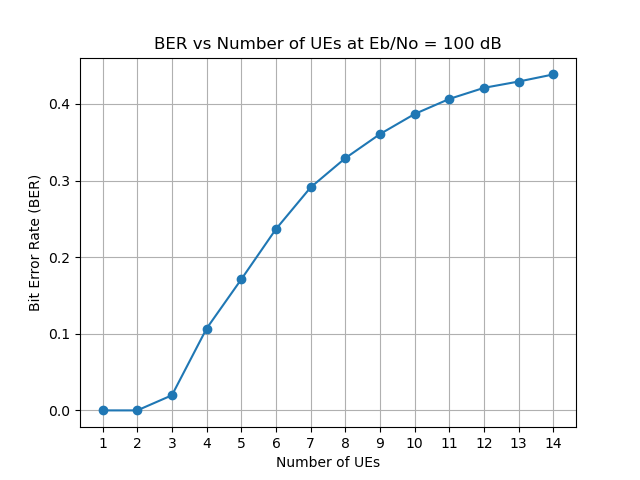
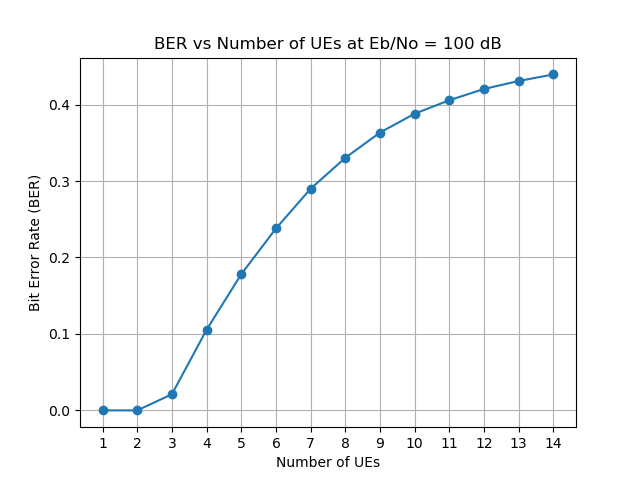
IRSA working

diff --git a/p07_IRSA_over_NR_parallel.py b/p07_IRSA_over_NR_parallel.py
@@ -97,7 +97,7 @@ def generate_ues(simulation_params, num_ues_per_frame, num_simulations):
     
     # Generate random binary bits for the UE
     num_ues =num_ues_per_frame* num_simulations
-    bits = binary_source([num_ues, n])
+    bits = binary_source([num_ues, k])
     
     # Encode the bits using LDPC encoder
     codewords = encoder(bits)
@@ -134,7 +134,7 @@ def generate_slot_indices(num_simulations, num_ues_per_frame, frame_size, probab
     slot_indices_list = []
 
     # Step 1: Randomly select the number of replicas for each UE based on the given probabilities
-    replica_counts = np.random.choice(np.arange(1, len(probabilities) + 1), size=num_ues, p=probabilities)
+    replica_counts = np.random.choice(np.arange(len(probabilities)), size=num_ues, p=probabilities)
 
     # Step 2: For each UE, randomly select slot indices based on the selected number of replicas
     for i in range(num_simulations):
@@ -143,10 +143,8 @@ def generate_slot_indices(num_simulations, num_ues_per_frame, frame_size, probab
             slot_indices = np.random.choice(np.arange(i * frame_size, (i + 1) * frame_size), size=num_replicas, replace=False)
             slot_indices_list.append(slot_indices)
     
-    # Convert the list to a tensor
-    slot_indices_tensor = tf.ragged.constant(slot_indices_list)
 
-    return slot_indices_tensor, replica_counts
+    return slot_indices_list, replica_counts
 
 def generate_channel(simulation_params, num_simulations, num_ues_per_frame, num_replicas, is_phase_shift_applied):
     """
@@ -198,6 +196,7 @@ def generate_channel(simulation_params, num_simulations, num_ues_per_frame, num_
 
     return angles_list, channel_coeff_list
 
+
 def generate_hyper_irsa_frame(simulation_params, num_simulations, num_ues_per_frame, frame_size, probabilities):
     """
     Generate an IRSA frame based on the given simulation parameters.
@@ -233,10 +232,10 @@ def generate_hyper_irsa_frame(simulation_params, num_simulations, num_ues_per_fr
     resource_grids, bits = generate_ues(simulation_params, num_ues_per_frame, num_simulations)
     
     # Generate slot indices based on the given probabilities
-    slot_indices = generate_slot_indices(num_simulations, num_ues_per_frame, frame_size, probabilities)
+    slot_indices, num_replicas = generate_slot_indices(num_simulations, num_ues_per_frame, frame_size, probabilities)
     
     # Generate the channel coefficients for each UE
-    angles, channel_coeff = generate_channel(simulation_params, num_ues_per_frame, num_simulations, frame_size, is_phase_shift_applied)
+    angles, channel_coeff = generate_channel(simulation_params, num_simulations, num_ues_per_frame, num_replicas, is_phase_shift_applied)
     
 
     
@@ -257,11 +256,13 @@ def generate_hyper_irsa_frame(simulation_params, num_simulations, num_ues_per_fr
         
         # Get the slot indices for the current UE
         slot_indices_ue = slot_indices[ue_index]
+        num_replicas_ue = num_replicas[ue_index]
         
         # Allocate the replicas of the current UE in the temporary hyper IRSA frame
-        for replica_index in slot_indices_ue:
+        for replica_index in range(num_replicas_ue):
+            replica_position = slot_indices_ue[replica_index]
             resource_grid_with_channel = resource_grid * channel_coeff_ue[replica_index]
-            ue_hyper_irsa_frame = tf.tensor_scatter_nd_update(ue_hyper_irsa_frame, [[replica_index]], resource_grid_with_channel)
+            ue_hyper_irsa_frame = tf.tensor_scatter_nd_update(ue_hyper_irsa_frame, [[replica_position]], tf.expand_dims(resource_grid_with_channel, axis=0))
         
         # Add the temporary hyper IRSA frame to the output frame
         irsa_hyper_frame += ue_hyper_irsa_frame
@@ -358,7 +359,7 @@ def decode_frame(received_rg, no, num_simulations, frame_size, simulation_params
     # Extract the data symbols from the equalized resource grid
     received_data_rg = tf.gather(received_rg_equalized, data_indices, axis=1)
     # Flatten the received symbols to match the input shape of the demapper
-    received_symbols= tf.reshape(received_symbols, (batch_size, -1))
+    received_symbols= tf.reshape(received_data_rg, (batch_size, -1))
 
     # Demap the received symbols to log-likelihood ratios (LLRs)
     llr = demapper([received_symbols, no])
@@ -401,7 +402,7 @@ def search_new_identified_ues(bits_hat, bits, slot_indices, identified_ues):
                 
     return new_identified_ues, new_identified_positions, new_ues_found
 
-def remove_replicas_of_newlly_identified_ues(y_resource_grids, resourse_grids, slot_indices, new_identified_ues, is_perfect_CSI):
+def remove_replicas_of_newlly_identified_ues(y_resource_grids, resourse_grids, slot_indices, new_identified_ues, is_perfect_SIC, channels):
     """
     Remove the replicas of a UE when it is recognized.
 
@@ -422,7 +423,7 @@ def remove_replicas_of_newlly_identified_ues(y_resource_grids, resourse_grids, s
         for pos in slot_indices[ue]:
             y_replica_slot = y_resource_grids_cleaned[pos]
             
-            if is_perfect_CSI:
+            if is_perfect_SIC:
                 # Extract the Channel coefficient of the replica
                 h_hat_replicas = channels[i]['coeff']
             else:
@@ -432,7 +433,7 @@ def remove_replicas_of_newlly_identified_ues(y_resource_grids, resourse_grids, s
             
             
             clean_slot = y_replica_slot - ue_rg * h_hat_replicas
-            y_resource_grids_cleaned = tf.tensor_scatter_nd_update(y_resource_grids_cleaned, [[pos]], clean_slot)
+            y_resource_grids_cleaned = tf.tensor_scatter_nd_update(y_resource_grids_cleaned, [[pos]], tf.expand_dims(clean_slot, axis=0))
 
     return y_resource_grids_cleaned
 
@@ -457,6 +458,9 @@ def decode_irsa_frame(y_resource_grids, no, simulation_params, resourse_grids, b
         slots_to_decode: List of slots to decode in future passes.
     """
     # Extract necessary parameters from the simulation_params dictionary
+    channel_params = simulation_params["Channel parameters"]
+    is_perfect_SIC = channel_params['is_perfect_SIC']
+    
     num_ues = num_simulations * num_ues_per_frame
 
     # Start decoding the received signal slot by slot
@@ -475,7 +479,7 @@ def decode_irsa_frame(y_resource_grids, no, simulation_params, resourse_grids, b
         new_identified_positions.update(new_positions)
 
         if new_ues_found:
-            y_resource_grids = remove_replicas_of_newlly_identified_ues(y_resource_grids, resourse_grids, slot_indices, new_identified_ues, simulation_params["Channel parameters"]["type"] == "Only Phase Shift")
+            y_resource_grids = remove_replicas_of_newlly_identified_ues(y_resource_grids, resourse_grids, slot_indices, new_identified_ues, is_perfect_SIC, h_hat)
             identified_ues.update(new_identified_ues)
         else:
             print("No new UEs were identified.")
@@ -485,96 +489,133 @@ def decode_irsa_frame(y_resource_grids, no, simulation_params, resourse_grids, b
 
     return list(identified_ues)
 
+def run_simulation(simulation_params, num_simulations, num_ues_per_frame, frame_size, probabilities, ebno_db):
+    """
+    Run a single simulation.
 
+    Args:
+        simulation_params: Dictionary containing all simulation parameters.
+        num_simulations: Number of simulations to run.
+        num_ues_per_frame: Number of UEs per frame.
+        frame_size: Total number of slots in the frame.
+        probabilities: Probabilities for selecting number of replicas.
+        ebno_db: The Eb/No value in dB.
+
+    Returns:
+        identified_ues: List of identified UEs.
+    """
+    # Generate the IRSA frame
+    irsa_hyper_frame, resource_grids, h_ues, replicas_indices, bits = generate_hyper_irsa_frame(simulation_params, num_simulations, num_ues_per_frame, frame_size, probabilities)
+    # Pass the IRSA frame through the AWGN channel
+    received_frame, no = pass_through_awgn(irsa_hyper_frame, ebno_db, simulation_params)
+    # Decode the IRSA frame
+    identified_ues = decode_irsa_frame(received_frame, no, simulation_params, resource_grids, bits, replicas_indices, num_simulations, frame_size, num_ues_per_frame)
+    
+    return identified_ues
+
+#%%
+# Simulation parameters
+simulation_params = {
+    "Carrier parameters": {
+        "num_resource_blocks": 1,
+        "numerology": 0,
+        "pilot_indices": [3, 9],
+        "num_ofdm_symbols": 14
+    },
+    "Transport block parameters": {
+        "num_bits_per_symbol": 2,
+        "coderate": 0.5
+    },
+    "Channel parameters": {
+        "is_phase_shift_applied": True,
+        "is_perfect_SIC": False
+    }
+}
+# Number of UEs per frame
+num_ues_per_frame = 6
+# Number of simulations to run
+num_simulations = 1000
+# Number of slots in the frame
+frame_size = 10
+# Probabilities for selecting number of replicas
+probabilities = [0, 0.3, 0.15, 0.55]
+# Eb/No value in dB
+ebno_db = 100
+
+# Run the simulation
+identified_ues = run_simulation(simulation_params, num_simulations, num_ues_per_frame, frame_size, probabilities, ebno_db)
+# Print the total number of ues and the identified ues
+num_ues = num_simulations * num_ues_per_frame
+print(f"\nTotal number of UEs: {num_ues}")
+print(f"Identified UEs: {len(identified_ues)}")
 
 
 #%%
-# Define a container to save all simulation parameters
+# Plotting the performance of IRSA with varying number of UEs per frame
+# Simulation parameters
 simulation_params = {
     "Carrier parameters": {
-        "numerology": 0,
         "num_resource_blocks": 1,
-        "num_ofdm_symbols": 14,
-        "pilot_indices": [2, 11],
+        "numerology": 0,
+        "pilot_indices": [3, 9],
+        "num_ofdm_symbols": 14
     },
     "Transport block parameters": {
         "num_bits_per_symbol": 2,
-        "coderate": 0.5,
-    },
-    "IRSA Parameters": {
-        "num_slots_per_frame": 10,
-        "num_ues": 6,
-        "max_replicas": 2,  # Add a variable to control the max number of replicas allowed
+        "coderate": 0.5
     },
     "Channel parameters": {
-        "type": "Only Phase Shift",  # Options: "None", "Only Phase Shift"
+        "is_phase_shift_applied": True,
+        "is_perfect_SIC": False
     }
 }
+# Number of simulations to run
+num_simulations = 1000
+# Number of slots in the frame
+frame_size = 15
+# Probabilities for selecting number of replicas
+probabilities = [0, 0.3, 0.15, 0.55]
+# Eb/No value in dB
+ebno_db = 100
 
-# Run the IRSA simulation
-irsa_frame, resource_grid_list, h_ues, replicas_indices_list, original_bits_list = generate_irsa_frame(simulation_params)
-received_frame, no = pass_through_awgn(irsa_frame, 100, simulation_params)
-identified_ues, slots_to_decode = decode_irsa_frame(received_frame, no, simulation_params, resource_grid_list, original_bits_list, replicas_indices_list)
+# Initialize lists to store results
+total_ues_per_frame_list = []
+identified_ues_per_frame_list = []
 
-# Print the transmission report (Add some separation lines for better readability)
-print("\n\n")
-print("=====================================================")
-print("Transmission Report:")
-print(f"Number of UEs: {simulation_params['IRSA Parameters']['num_ues']}")
-print(f"Number of slots per frame: {simulation_params['IRSA Parameters']['num_slots_per_frame']}")
-print(f"Number of identified UEs: {len(identified_ues)}")
-print(f"Identified UEs: {', '.join(map(str, identified_ues))}")
-print("=====================================================")
+# Vary the number of UEs per frame from 1 to frame_size - 1
+for num_ues_per_frame in range(1, frame_size+1):
+    # Run the simulation
+    identified_ues = run_simulation(simulation_params, num_simulations, num_ues_per_frame, frame_size, probabilities, ebno_db)
+    
+    # Total number of UEs per frame
+    total_ues_per_frame = num_ues_per_frame
+    total_ues_per_frame_list.append(total_ues_per_frame)
+    
+    # Number of identified UEs per frame
+    identified_ues_per_frame = len(identified_ues) / num_simulations
+    identified_ues_per_frame_list.append(identified_ues_per_frame)
 
+# Plotting
+plt.figure(figsize=(10, 6))
+plt.plot(total_ues_per_frame_list, identified_ues_per_frame_list, 'bo-', label='Identified UEs per Frame')
+plt.xlabel('Total Number of UEs per Frame')
+plt.ylabel('Number of Identified UEs per Frame')
+plt.title('Performance of IRSA with Varying Number of UEs per Frame')
+plt.legend()
+plt.grid(True)
+plt.show()
 
-# Plot the percen
+#%%
+# Save the statistics to a CSV file
+import csv
 
-# %%
-
-# Define a container to save all simulation parameters
-simulation_params = {
-    "Carrier parameters": {
-        "numerology": 0,
-        "num_resource_blocks": 1,
-        "num_ofdm_symbols": 14,
-        "pilot_indices": [2, 11],
-    },
-    "Transport block parameters": {
-        "num_bits_per_symbol": 2,
-        "coderate": 0.5,
-    },
-    "IRSA Parameters": {
-        "num_slots_per_frame": 10,
-        "num_ues": None,
-        "max_replicas": 2,  # Add a variable to control the max number of replicas allowed
-    },
-    "Channel parameters": {
-        "type": "Only Phase Shift",  # Options: "None", "Only Phase Shift"
-    }
-}
-
-# Plot the performance of the IRSA decoder for varying number of UEs
-def plot_performance_varying_ues(simulation_params, max_num_ues, step=1):
-    num_slots_per_frame = simulation_params["IRSA Parameters"]["num_slots_per_frame"]
-    identified_ues_list = []
-
-    for num_ues in range(1, max_num_ues + 1, step):
-        simulation_params["IRSA Parameters"]["num_ues"] = num_ues
-        irsa_frame, resource_grid_list, h_ues, replicas_indices_list, original_bits_list = generate_irsa_frame(simulation_params)
-        received_frame, no = pass_through_awgn(irsa_frame, 100, simulation_params)
-        identified_ues, slots_to_decode = decode_irsa_frame(received_frame, no, simulation_params, resource_grid_list, original_bits_list, replicas_indices_list)
-        identified_ues_list.append(len(identified_ues))
-        print(f"Total UEs: {num_ues}, Identified UEs: {len(identified_ues)}")
-
-    plt.figure(figsize=(10, 6))
-    plt.plot(range(1, max_num_ues + 1, step), identified_ues_list, marker='o', linestyle='-', color='b')
-    plt.xlabel("Total Number of UEs")
-    plt.ylabel("Number of Identified UEs")
-    plt.title(f"Performance of IRSA Decoder (Fixed {num_slots_per_frame} Slots per Frame)")
-    plt.grid(True)
-    plt.show()
-
-# Set the maximum number of UEs to test
-max_num_ues = 10
-plot_performance_varying_ues(simulation_params, max_num_ues)
-# %%
+# File path
+file_path = 'irsa_performance.csv'
+# Write the statistics to the CSV file
+with open(file_path, mode='w', newline='') as file:
+    writer = csv.writer(file)
+    writer.writerow(['Total UEs per Frame', 'Identified UEs per Frame'])
+    for i in range(len(total_ues_per_frame_list)):
+        writer.writerow([total_ues_per_frame_list[i], identified_ues_per_frame_list[i]])
+        
+print(f"Statistics saved to {file_path}")

diff --git a/simple_irsa_actual.py b/simple_irsa_actual.py
@@ -6,6 +6,7 @@
 
 import matplotlib.pyplot as plt
 import numpy as np
+import pandas as pd
 
 #%%
 # Distributions for degree selection: the degree always starts from 0 
@@ -85,7 +86,7 @@ def decode_irsa(slots_of_users, M):
         nb_iter += 1
 
     return decoded_set #, decoded_iteration #, users_of_slots
-
+#%%
 np.random.seed(1)
 # 7 users transmitting in 10 slots with degree 2
 N = 7
@@ -113,27 +114,38 @@ print("avg decoded=%s" %avg_decoded, " for 10 trials with N=90 M=100 degree=2"  
 
 #%%
 
-L = 100 # number of simulations
-M = 100 # number of slots
-lambda_dist = np_sol_dist # [0,0,1]
+L = 1000 # number of simulations
+M = 15 # number of slots
+# lambda_dist = np_sol_dist # [0,0,1]
+lambda_dist=[0, 0.3, 0.15, 0.55]
 np.random.seed(1)
-
 
 xl = []
 yl = []
-for N in range(5,M+1,5): # number of users
+for N in range(1,M+1,1): # number of users
     avg_decoded = simul_nb_decoded(N, M, L, lambda_dist)
     xl.append(N)
     yl.append(avg_decoded)    
 xarray = np.array(xl)
 yarray = np.array(yl)
-plt.plot(xarray, yarray, ".-", label="%s" % lambda_dist)
-#plt.legend(loc="top left")
+
+# Create a new figure
+plt.figure()
+
+# Plot the first curve
+plt.plot(xarray, yarray, ".-", label="simulated %s" % lambda_dist)
+
+# Load the data from irsa_performance.csv
+data = pd.read_csv('irsa_performance.csv')
+
+# Extract the number of users and the average number of decoded users
+num_users = data['num_users'].values
+avg_decoded_imperfect_sic = data['avg_decoded_imperfect_sic'].values
+
+# Plot the new curve on the same figure
+plt.plot(num_users, avg_decoded_imperfect_sic, ".-", label="imperfect SIC")
+
+# Add legend, grid, and show the plot
+plt.legend(loc="best")
 plt.grid()
-
 plt.show()
-
-#%%
-print ("lambda_dist=", lambda_dist)
-
-# %%
